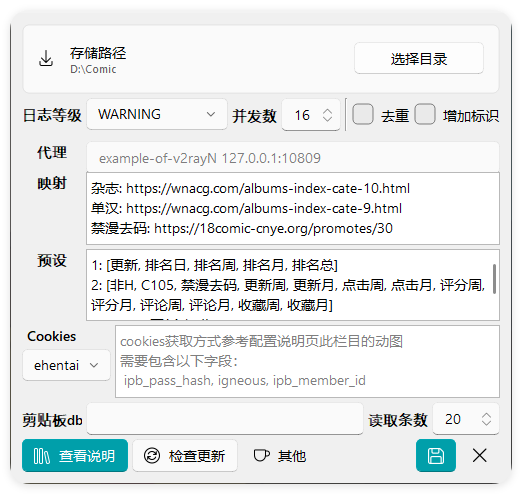
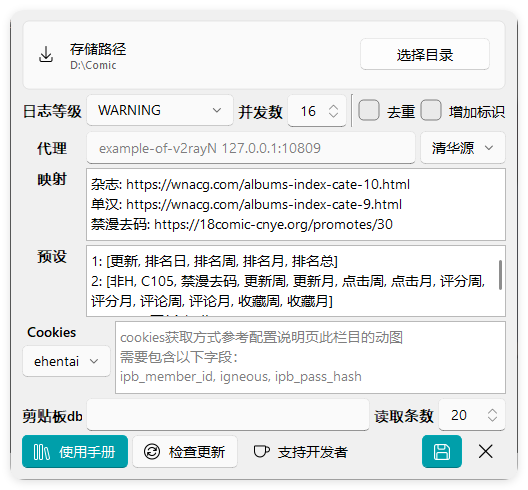
update: pypi source

diff --git a/GUI/uic/conf_dia.py b/GUI/uic/conf_dia.py
@@ -15,7 +15,7 @@ from qfluentwidgets import CheckBox, ComboBox, CompactSpinBox, LineEdit, Primary
 class Ui_Dialog(object):
     def setupUi(self, Dialog):
         Dialog.setObjectName("Dialog")
-        Dialog.resize(500, 390)
+        Dialog.resize(500, 470)
         sizePolicy = QtWidgets.QSizePolicy(QtWidgets.QSizePolicy.Preferred, QtWidgets.QSizePolicy.Fixed)
         sizePolicy.setHorizontalStretch(0)
         sizePolicy.setVerticalStretch(0)
@@ -114,14 +114,20 @@ class Ui_Dialog(object):
         self.label_4.setObjectName("label_4")
         self.horizontalLayout_proxies.addWidget(self.label_4)
         self.proxiesEdit = LineEdit(Dialog)
-        sizePolicy = QtWidgets.QSizePolicy(QtWidgets.QSizePolicy.Expanding, QtWidgets.QSizePolicy.Fixed)
+        sizePolicy = QtWidgets.QSizePolicy(QtWidgets.QSizePolicy.Expanding, QtWidgets.QSizePolicy.Preferred)
         sizePolicy.setHorizontalStretch(0)
         sizePolicy.setVerticalStretch(0)
         sizePolicy.setHeightForWidth(self.proxiesEdit.sizePolicy().hasHeightForWidth())
         self.proxiesEdit.setSizePolicy(sizePolicy)
-        self.proxiesEdit.setMaximumSize(QtCore.QSize(16777215, 20))
         self.proxiesEdit.setObjectName("proxiesEdit")
         self.horizontalLayout_proxies.addWidget(self.proxiesEdit)
+        self.pypiSourceBox = ComboBox(Dialog)
+        self.pypiSourceBox.setObjectName("pypiSourceBox")
+        self.pypiSourceBox.addItem("")
+        self.pypiSourceBox.addItem("")
+        self.pypiSourceBox.addItem("")
+        self.pypiSourceBox.addItem("")
+        self.horizontalLayout_proxies.addWidget(self.pypiSourceBox)
         self.dialogVLayout.addLayout(self.horizontalLayout_proxies)
         self.horizontalLayout = QtWidgets.QHBoxLayout()
         self.horizontalLayout.setObjectName("horizontalLayout")

diff --git a/GUI/conf_dialog.py b/GUI/conf_dialog.py
@@ -80,6 +80,11 @@ class ConfDialog(QDialog, Ui_ConfDialog):
         support = list(COOKIES_PLACEHOLDER.keys())
         for cookie_type in support:
             self.cookiesBox.addItem(cookie_type)
+        
+        self.pypiSourceBox.setItemText(0, _translate("Dialog", "pypi"))
+        self.pypiSourceBox.setItemText(1, _translate("Dialog", "清华源"))
+        self.pypiSourceBox.setItemText(2, _translate("Dialog", "阿里源"))
+        self.pypiSourceBox.setItemText(3, _translate("Dialog", "华为源"))
         self.cookiesBox.setCurrentText(support[0])
 
     def _preset(self):
@@ -125,6 +130,7 @@ class ConfDialog(QDialog, Ui_ConfDialog):
         # 处理cookies配置
         self._load_cookie_config()
         self.logLevelComboBox.setCurrentIndex(self.logLevelComboBox.findText(getattr(conf, "log_level")))
+        self.pypiSourceBox.setCurrentIndex(getattr(conf, "pypi_source"))
         # 2. CheckBox类配置
         for _ in ('addUuid', 'isDeduplicate'):
             getattr(self, f"{_}").setChecked(getattr(conf, f"{_}"))
@@ -173,6 +179,7 @@ class ConfDialog(QDialog, Ui_ConfDialog):
             "completer": yaml.safe_load(cp(getattr(self, "completerEdit").toPlainText())),
             "proxies": cp(self.proxiesEdit.text()).replace(" ", "").split(",") if self.proxiesEdit.text() else None,
             "log_level": getattr(self, "logLevelComboBox").currentText(),
+            "pypi_source": getattr(self, "pypiSourceBox").currentIndex(),
             "addUuid": getattr(self, "addUuid").isChecked(),
             "isDeduplicate": getattr(self, "isDeduplicate").isChecked(),
             "clip_db": getattr(self, "clip_dbEdit").text(),

diff --git a/variables/__init__.py b/variables/__init__.py
@@ -24,9 +24,9 @@ CN_PREVIEW_NEED_PROXIES_IDXES = [3, 4, 6]
 
 DEFAULT_COMPLETER = {  # only take effect when init (mean value[completer] of conf.yml is null or not exist)
     1: ['更新', '排名日', '排名周', '排名月', '排名总'],
-    2: ['C105', '更新周', '更新月', '点击周', '点击月', '评分周', '评分月', '评论周', '评论月', '收藏周', '收藏月'],
-    3: ['C105', '更新', '汉化'],
-    4: [res.EHentai.MAPPINGS_POPULAR, res.EHentai.MAPPINGS_INDEX, 'C105'],
+    2: ['C106', '更新周', '更新月', '点击周', '点击月', '评分周', '评分月', '评论周', '评论月', '收藏周', '收藏月'],
+    3: ['C106', '更新', '汉化'],
+    4: [res.EHentai.MAPPINGS_POPULAR, res.EHentai.MAPPINGS_INDEX, 'C106'],
     5: ['更新', '人气'],
     6: ['index-all', 'popular/week-all', 'popular/month-all']
 }
@@ -39,4 +39,11 @@ STATUS_TIP = {
     4: f"ehentai: {res.GUI.SearchInputStatusTip.ehentai}",
     5: f"mangabz: {res.GUI.SearchInputStatusTip.mangabz}",
     6: f"hitomi: {res.GUI.SearchInputStatusTip.hitomi}"
+}
+
+PYPI_SOURCE = {
+    0: "https://pypi.org/simple",
+    1: "https://pypi.tuna.tsinghua.edu.cn/simple/",
+    2: "https://mirrors.aliyun.com/pypi/simple/",
+    3: "https://repo.huaweicloud.com/repository/pypi/simple/",
 }

diff --git a/utils/config/__init__.py b/utils/config/__init__.py
@@ -10,6 +10,7 @@ import yaml
 from loguru import logger as lg
 from PyQt5.QtCore import QStandardPaths
 
+from assets import res
 from variables import DEFAULT_COMPLETER, COOKIES_SUPPORT
 from deploy import curr_os
 
@@ -143,6 +144,7 @@ class Conf(BaseConf):
     sv_path: t.Union[p.Path, str] = curr_os.default_sv_path
     proxies: list = field(default_factory=list)
     log_level: str = 'WARNING'
+    pypi_source: int = 0
     addUuid: bool = False
     isDeduplicate: bool = False
     custom_map: dict = field(default_factory=dict)
@@ -170,7 +172,9 @@ class Conf(BaseConf):
             if k == "sv_path" and v == r"D:\Comic":
                 v = curr_os.default_sv_path
             # 跳过cookie相关字段，由ConfCookie处理
-            if k != "cookies":
+            if k == "pypi_source" and res.lang == "zh_CN":
+                setattr(self, k, v or 1)
+            elif k != "cookies":
                 setattr(self, k, v or getattr(self, k, None))
         for _ in ("sv_path", "clip_db", "rv_script", "bg_path"):
             setattr(self, _, p.Path(getattr(self, _)))

diff --git a/GUI/manager/preprocess.py b/GUI/manager/preprocess.py
@@ -1,15 +1,14 @@
-import sys
 import json
 import importlib
 import subprocess
 
-import uv
 import psutil
 import httpx
 from PyQt5.QtCore import Qt, QObject
 from qfluentwidgets import InfoBar, InfoBarPosition
 
 from assets import res
+from variables import PYPI_SOURCE
 from utils import conf, ori_path, exc_p, uv_exc, env
 from utils.website import EHentaiKits, Cache
 from GUI.browser_window import BrowserWindow
@@ -242,8 +241,7 @@ class PreprocessManager(QObject):
                 if missing_packages:
                     # 使用pyproject.toml安装脚本依赖
                     cmd = [uv_exc, "tool", "install", "--force", "ComicGUISpider[script]"]
-                    if res.lang == "zh_CN":
-                        cmd.extend(["--index-url", "https://pypi.tuna.tsinghua.edu.cn/simple"])
+                    cmd.extend(["--index-url", PYPI_SOURCE[conf.pypi_source]])
                     process = subprocess.Popen(
                         cmd, cwd=exc_p, env=env,
                         stdout=subprocess.PIPE, stderr=subprocess.STDOUT,

diff --git a/deploy/update.py b/deploy/update.py
@@ -14,6 +14,7 @@ from colorama import init, Fore
 from packaging.version import parse
 
 from assets import res as ori_res
+from variables import PYPI_SOURCE
 from utils import conf, exc_p, uv_exc, env
 
 
@@ -217,8 +218,7 @@ class Proj:
         backuper.create_backup()
         try:
             cmd = [uv_exc,"tool","upgrade","ComicGUISpider"]
-            if ori_res.lang == "zh_CN":
-                cmd.extend(["--index-url", "https://pypi.tuna.tsinghua.edu.cn/simple"])
+            cmd.extend(["--index-url", PYPI_SOURCE[conf.pypi_source]])
             self.print("[uv cmd]" + " ".join(cmd))
             process = subprocess.Popen(
                 cmd, cwd=exc_p, env=env,

diff --git a/docs/deploy/quick-start.md b/docs/deploy/quick-start.md
@@ -1,14 +1,18 @@
 # 🚀 快速开始
 
-::: warning CGS 代码/解压的路径不能含有中文/中标
+::: warning ⚠ CGS 代码/解压的路径不能含有中文/中标
 :::
 
 ## 1. 下载 / 部署
 
-+ 直接下载 [📦绿色包](https://github.com/jasoneri/ComicGUISpider/releases/latest)，并解压
++ 直接下载 [📦绿色包](https://github.com/jasoneri/ComicGUISpider/releases/latest)，并解压，初次打开应用时会进入自动部署流程
 
 ::: warning macOS用户
 须阅读 [macOS 部署](./mac-required-reading.md) 文档
+:::
+
+::: warning ⚠ 当自动部署流程出现403等pypi源网络问题时，查看 [pypi换源指引](/faq/#pypi%E6%8D%A2%E6%BA%90%E6%8C%87%E5%BC%95)  
+
 :::
 
 + 或使用`uv tool`  
@@ -21,9 +25,9 @@
     win: 新建用户级的环境变量，设置后需开新终端窗口生效  
     &emsp;`UV_TOOL_DIR`(uv tool安装项目的位置),  
     &emsp;`UV_TOOL_BIN_DIR`(uv编译执行程序的放置位置)  
-    mac(示例bash): `echo "export UV_TOOL_DIR=放置tool的位置" >> ~/.bashrc`,  
-    &emsp;`UV_TOOL_BIN_DIR`同理操作，`source ~/.bashrc`后生效  
-    最后执行 `uv tool update-shell` 更新进 PATH，之后任何位置可直接运行 cgs / cgs-cli
+    mac(示例zsh): `echo "export UV_TOOL_DIR=放置tool的位置" >> ~/.zshrc`,  
+    &emsp;`UV_TOOL_BIN_DIR`同理操作，`source ~/.zshrc`后生效  
+    最后执行 `uv tool update-shell` 更新进 PATH，之后新终端窗口可直接运行 cgs / cgs-cli
 3. uv tool 安装 CGS  
 ``` bash
 uv tool install ComicGUISpider --index-url https://pypi.tuna.tsinghua.edu.cn/simple

diff --git a/docs/faq/index.md b/docs/faq/index.md
@@ -11,6 +11,30 @@
 刷新一下页面  
 有些是 JavaScript 没加载，有些是对方服务器问题  
 
+### pypi换源指引
+
+先选出一个目前你的网络环境能打开的（[清华源](https://pypi.tuna.tsinghua.edu.cn/simple)
+ / [阿里源](https://mirrors.aliyun.com/pypi/simple)
+ / [华为源](https://repo.huaweicloud.com/repository/pypi/simple)
+）
+
+::: warning 不限以下两种，所有文档的所有涉及pypi源命令因网络问题出错的都是更换源网址这样去处理
+:::
+
+#### Ⅰ. 初次部署换源
+
+::: tip 默认安装时使用pypi清华源  
+以下是切换至阿里源命令示例，在解压目录开终端
+
+```cmd
+.\CGS.exe -i https://mirrors.aliyun.com/pypi/simple
+```
+:::
+
+#### Ⅱ. CGS更新/脚本集(kemono)额外依赖换源
+
+默认使用pypi清华源，换源通过 [配置窗口点选更换](/config/#pypi%E6%BA%90-pypi-source)  
+
 ## 2. 爬虫
 
 ### jm的章节下载

diff --git a/docs/config/index.md b/docs/config/index.md
@@ -46,6 +46,18 @@
 
 > [!Info] 建议使用代理模式在此配置代理，而非全局代理模式，不然访问图源会吃走大量代理的流量
 
+### pypi源 / `pypi_source`
+
+代理输入框右方的选择框  
+涉及到 CGS更新、脚本集额外依赖安装等，其序号映射如下
+
+```yaml
+0: pypi
+1: 清华源
+2: 阿里源
+3: 华为源
+```
+
 ### 映射 / `custom_map`
 
 搜索输入映射  

diff --git a/docs/feat/script.md b/docs/feat/script.md
@@ -75,8 +75,7 @@ utils
 
 3.2 命令行工具参考
 
-::: tip 绿色包使用的命令为 `./runtime/python.exe ./scripts/utils/script/image/kemono.py`  
-对应替换下方的 `python kemono.py`  
+::: tip 脚本相对位置 `utils/script/image/kemono.py`  
 :::
 
 ```bash
